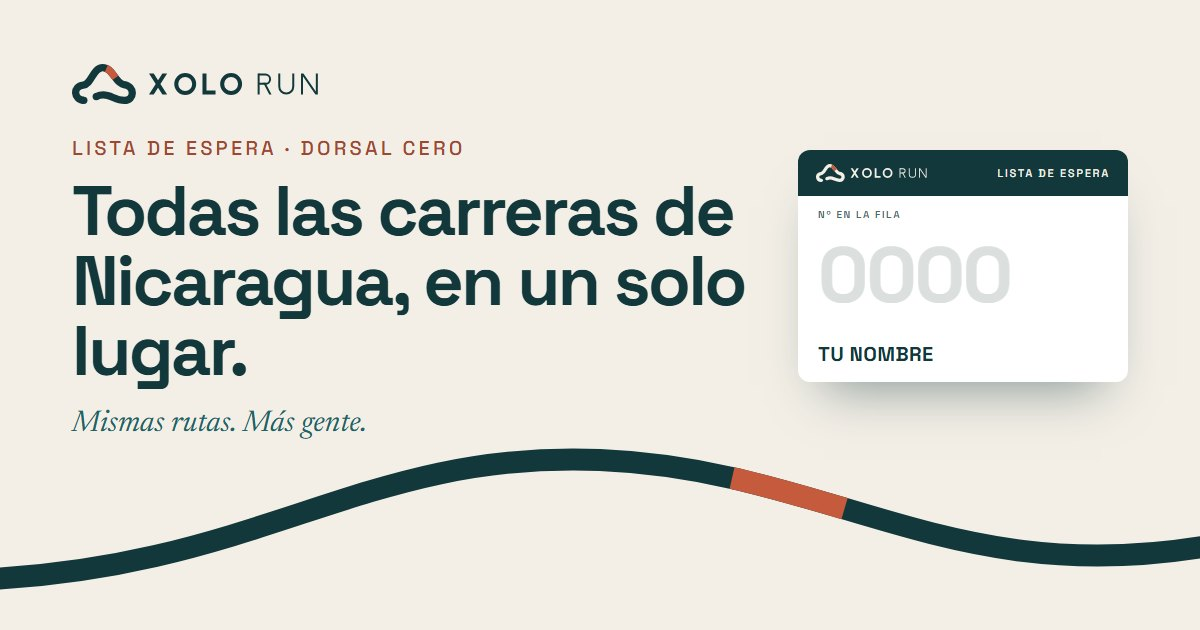
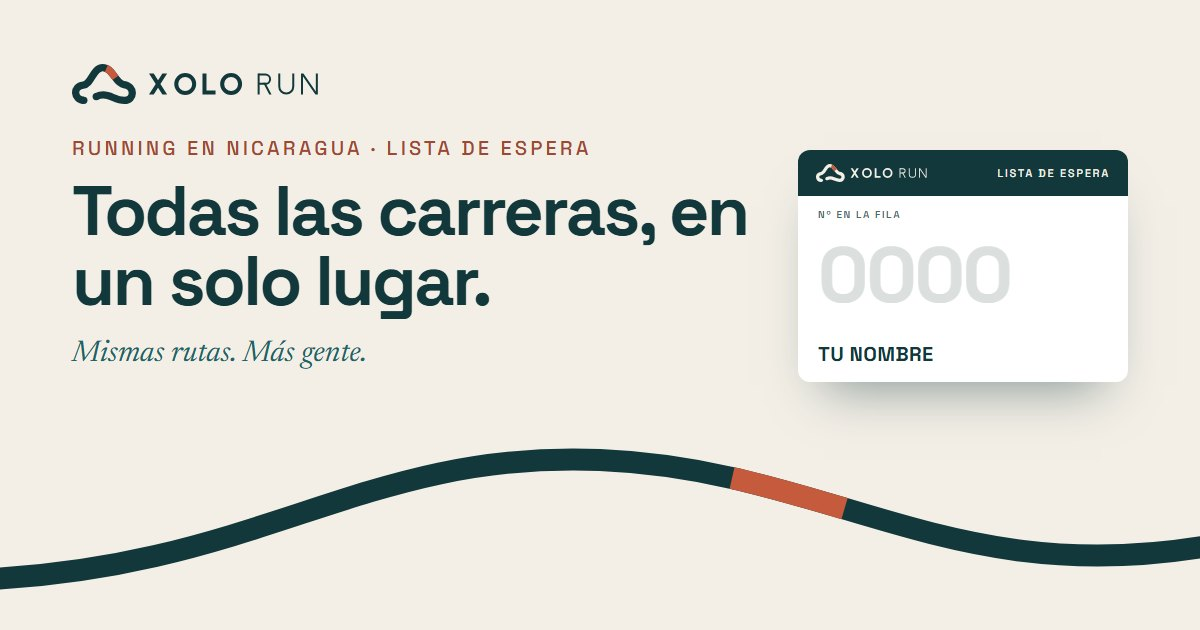
«Carreras de running» y «la app del running en Nicaragua» en los textos genéricos (título, descripción, hero, cifras, ruta, preguntas, WhatsApp, Nosotros, encuesta); imagen para compartir regenerada

diff --git a/i18n.js b/i18n.js
@@ -8,15 +8,15 @@
 (() => {
   const EN = {
     // ─── cabecera, pestañas y pie ───
-    'Xolo Run · Todas las carreras de Nicaragua, en un solo lugar': "Xolo Run · All of Nicaragua's races, in one place",
+    'Xolo Run · Todas las carreras de running de Nicaragua, en un solo lugar': "Xolo Run · All of Nicaragua's races, in one place",
     'Ir al contenido': 'Skip to content', 'Nosotros': 'About us', 'Preguntas': 'FAQ', 'Aviso de privacidad': 'Privacy notice',
     'Inicio': 'Home', 'Encuesta': 'Survey', 'Lista de espera': 'Waitlist',
     'Xolo Run · Nicaragua. Hecho por gente que corre.': 'Xolo Run · Nicaragua. Made by people who run.',
     'Mismas rutas. Más gente.': 'Same routes. More people.', 'Xolo Run · Nicaragua': 'Xolo Run · Nicaragua',
     // ─── portada ───
     'Running en Nicaragua': 'Running in Nicaragua',
-    'Inscribirte no debería ser una carrera.': "Signing up shouldn't be a race.",
-    'Xolo Run es la app para las carreras de Nicaragua: las encontrás, te inscribís, pagás y llevás tu dorsal en el teléfono, todo en un solo lugar. Todavía no sale. Anotate y te avisamos primero.':
+    'Inscribirte para correr no debería ser una carrera.': "Signing up shouldn't be a race.",
+    'Xolo Run es la app del running en Nicaragua: encontrás las carreras, te inscribís, pagás y llevás tu dorsal en el teléfono, todo en un solo lugar. Todavía no sale. Anotate y te avisamos primero.':
       "Xolo Run is the app for Nicaragua's races: find them, sign up, pay and carry your bib on your phone, all in one place. It isn't out yet. Join the list and we'll tell you first.",
     'Quiero mi dorsal': 'I want my bib', 'Ver cómo funciona': 'See how it works', 'Próximamente en': 'Coming soon on',
     'personas ya tienen su dorsal': 'people already have their bib',
@@ -38,14 +38,14 @@
     'Tu comprobante': 'Your receipt', 'Subido desde la app': 'Uploaded from the app', 'Comprobante enviado': 'Receipt sent', 'Revisado por el equipo del evento': 'Reviewed by the event team',
     'Tu dorsal ya está en la app.': 'Your bib is already in the app.', 'Salida': 'Start', 'Meta': 'Finish',
     // ─── lo que nos contaron ───
-    'Hoy, inscribirse a una carrera': 'Signing up for a race today',
+    'Hoy, inscribirse a una carrera de running': 'Signing up for a race today',
     'Lo que nos contaron 179 personas que corren en Nicaragua': 'What 179 people who run in Nicaragua told us',
     'Antes de construir, preguntamos. Estas son sus respuestas, con su base. Son el mapa de lo que Xolo Run tiene que resolver.':
       'Before building, we asked. These are their answers, with their base. They map what Xolo Run has to solve.',
     'Encuesta «Running en Nicaragua», respuestas completas del 6 al 8 de octubre de 2026, sin las pruebas del equipo. Los porcentajes son sobre quienes respondieron cada pregunta.':
       '«Running in Nicaragua» survey, complete responses from 6 to 8 October 2026, excluding team tests. Percentages are of those who answered each question.',
     'Sumate a la encuesta': 'Take the survey',
-    'quiso inscribirse a una carrera en el último año y al final no lo hizo.': "wanted to sign up for a race in the last year and in the end didn't.",
+    'quiso inscribirse a una carrera de running en el último año y al final no lo hizo.': "wanted to sign up for a race in the last year and in the end didn't.",
     'Qué pasó': 'What happened', 'La fecha no le quedaba': "The date didn't work", 'Se enteró tarde': 'Found out too late', 'No tenía con quién ir': 'Had nobody to go with',
     'Base: 88 que ya corrieron una carrera; razones de las 63 que no se inscribieron.': "Base: 88 who have run a race; reasons from the 63 who didn't sign up.",
     'Ves cada carrera con tiempo y te inscribís en pocos pasos.': 'You see every race in time and sign up in a few steps.',
@@ -64,8 +64,8 @@
     // ─── la ruta ───
     'Así es con Xolo Run': 'This is how it goes with Xolo Run', 'Paso 1': 'Step 1', 'Paso 2': 'Step 2', 'Paso 3': 'Step 3', 'Paso 5': 'Step 5', 'Paso 6': 'Step 6',
     'Paso 4 · El tramo de encuentro': 'Step 4 · The meeting stretch', 'La meta': 'The finish',
-    'Encontrás tu carrera.': 'You find your race.',
-    'Todas las carreras de Nicaragua, en un solo lugar. Las de tu zona, primero, y con tiempo para decidir.': "All of Nicaragua's races in one place. The ones near you first, with time to decide.",
+    'Encontrás tu próxima carrera.': 'You find your next race.',
+    'Todas las carreras de running de Nicaragua, en un solo lugar. Las de tu zona, primero, y con tiempo para decidir.': "All of Nicaragua's races in one place. The ones near you first, with time to decide.",
     'Te inscribís desde el teléfono.': 'You sign up from your phone.',
     'Distancia, talla y contacto de emergencia en pocos pasos. Tus datos quedan guardados para la próxima.': 'Distance, shirt size and emergency contact in a few steps. Your details are saved for next time.',
     'Pagás. Confirmado.': 'You pay. Confirmed.',
@@ -147,12 +147,12 @@
     'Dorsal reclamado': 'Bib claimed', 'Tu dorsal está en camino': 'Your bib is on its way', 'Tu dorsal ya es tuyo': 'Your bib is yours', 'En la fila': 'In line',
     'Preparando tu dorsal…': 'Preparing your bib…', 'Tu dorsal para historias': 'Your bib for Stories',
     'Mantené presionada la imagen y elegí «Guardar imagen». Después subila a tu historia.': 'Press and hold the image and choose «Save image». Then post it to your story.',
-    'Me anoté en Xolo Run, la app para las carreras de Nicaragua': "I joined Xolo Run, the app for Nicaragua's races", ', y tengo el #': ", and I'm #", ' en la fila': ' in line', '. Sacá tu dorsal: ': '. Get your bib: ',
+    'Me anoté en Xolo Run, la app del running en Nicaragua': "I joined Xolo Run, the app for Nicaragua's races", ', y tengo el #': ", and I'm #", ' en la fila': ' in line', '. Sacá tu dorsal: ': '. Get your bib: ',
     'Ya tengo': "I've got", 'mi dorsal': 'my bib', 'LISTA DE ESPERA': 'WAITLIST', 'Nº EN LA FILA': 'NO. IN LINE', 'QR · ESCANEALO Y ANOTATE': 'QR · SCAN IT AND JOIN', 'Sacá tu dorsal aquí': 'Get your bib here',
     'Encuesta · Xolo Run': 'Survey · Xolo Run', 'Lista de espera · Xolo Run': 'Waitlist · Xolo Run', 'en confirmación': 'pending',
     // ─── preguntas y aviso ───
     '¿Qué es Xolo Run?': 'What is Xolo Run?',
-    'Una app para las carreras de Nicaragua: ver todas en un solo calendario, inscribirte y pagar desde el teléfono, llevar tu dorsal con QR y recoger tu kit con un escaneo. También crews por zona y un reto cada semana.':
+    'Una app para las carreras de running de Nicaragua: ver todas en un solo calendario, inscribirte y pagar desde el teléfono, llevar tu dorsal con QR y recoger tu kit con un escaneo. También crews por zona y un reto cada semana.':
       "An app for Nicaragua's races: see them all in one calendar, sign up and pay from your phone, carry your QR bib and pick up your kit with one scan. Plus crews by area and a weekly challenge.",
     '¿Cuándo sale?': 'When does it launch?',
     'Todavía no tiene fecha. Quienes están en la lista se enteran primero, y no vamos a anunciar una fecha hasta que sea segura.': "No date yet. People on the list hear first, and we won't announce a date until it's certain.",
@@ -183,14 +183,14 @@
     // fuera del DOM (landing.js los pide con XR_T)
     'Mi dorsal de Xolo Run': 'My Xolo Run bib', 'Tu dorsal de Xolo Run con tu número y tu QR': 'Your Xolo Run bib with your number and your QR',
     // atributos de la landing (meta, og, aria-label)
-    'Xolo Run es la app para las carreras de Nicaragua: las encontrás, te inscribís, pagás y llevás tu dorsal en el teléfono. Todavía no sale: anotate en la lista de espera o contanos cómo corrés.':
+    'Xolo Run es la app del running en Nicaragua: encontrás las carreras, te inscribís, pagás y llevás tu dorsal en el teléfono. Todavía no sale: anotate en la lista de espera o contanos cómo corrés.':
       "Xolo Run is the app for Nicaragua's races: find them, sign up, pay and carry your bib on your phone. It isn't out yet: join the waitlist or tell us how you run.",
     'Xolo Run · Mismas rutas. Más gente.': 'Xolo Run · Same routes. More people.',
-    'La app para las carreras de Nicaragua. Todavía no sale: anotate y te avisamos primero.': "The app for Nicaragua's races. Not out yet: join the list and we'll tell you first.",
+    'La app del running en Nicaragua. Todavía no sale: anotate y te avisamos primero.': "The app for Nicaragua's races. Not out yet: join the list and we'll tell you first.",
     'Xolo Run, inicio': 'Xolo Run, home', 'Secciones': 'Sections', 'Cifras de la encuesta': 'Survey figures', 'Dónde va a estar la app': 'Where the app will be',
     // ─── página Nosotros (nosotros/index.html) ───
     'Nosotros · Xolo Run': 'About us · Xolo Run',
-    'Misión, visión, valores y el equipo detrás de Xolo Run, la app nicaragüense que reúne las carreras del país en un solo lugar.': "Mission, vision, values and the team behind Xolo Run, the Nicaraguan app that brings the country's races together in one place.",
+    'Misión, visión, valores y el equipo detrás de Xolo Run, la app nicaragüense que reúne las carreras de running del país en un solo lugar.': "Mission, vision, values and the team behind Xolo Run, the Nicaraguan app that brings the country's races together in one place.",
     'Misión, visión, valores y el equipo detrás de Xolo Run.': 'Mission, vision, values and the team behind Xolo Run.',
     'Xolo Run, ir al inicio': 'Xolo Run, go to home', 'Especialidades': 'Specialties',
     'Por qué hacemos Xolo Run': 'Why we make Xolo Run',
@@ -211,7 +211,7 @@
     'Orgullo nicaragüense': 'Nicaraguan pride', 'Lo de aquí es nuestra fortaleza: rutas, lugares y gente.': "What's from here is our strength: routes, places and people.", 'Folclor de postal.': 'Postcard folklore.',
     'Cuidadosos en el detalle': 'Careful with the details', 'Pocas cosas, bien hechas. La calidad se nota.': 'Few things, done well. Quality shows.', 'Hacer por cumplir.': 'Doing it just to tick the box.',
     'El equipo': 'The team', 'Tres personas de aquí, una misma ruta': 'Three people from here, one shared route',
-    'Los tres estudiamos ingeniería industrial: lo nuestro es ordenar procesos y quitar los pasos que sobran. Venimos de años en operaciones, pagos y atención al cliente en fintech, software como servicio, logística y el mundo corporativo, y ahora lo ponemos al servicio de las carreras de Nicaragua.':
+    'Los tres estudiamos ingeniería industrial: lo nuestro es ordenar procesos y quitar los pasos que sobran. Venimos de años en operaciones, pagos y atención al cliente en fintech, software como servicio, logística y el mundo corporativo, y ahora lo ponemos al servicio de las carreras de running de Nicaragua.':
       "All three of us studied industrial engineering: our thing is putting processes in order and removing the steps that get in the way. We come from years in operations, payments and customer service in fintech, software as a service, logistics and the corporate world, and now we put that to work for Nicaragua's races.",
     'Producto': 'Product', 'Operaciones': 'Operations', 'Comercial': 'Sales', 'En Xolo Run': 'At Xolo Run', 'De dónde viene': 'Background',
     'Cofundador · Producto y tecnología': 'Co-founder · Product and technology', 'Cofundador · Operaciones y cumplimiento': 'Co-founder · Operations and compliance', 'Cofundador · Comercial y alianzas': 'Co-founder · Sales and partnerships',
@@ -223,7 +223,7 @@
     'Más de seis años en fintech, servicios legales y el mundo corporativo. En fintech pasó de investigador de fraude a gerente de un equipo internacional y luego a gerente asociado de programas.':
       'Over six years in fintech, legal services and the corporate world. In fintech, went from fraud investigator to manager of an international team and then to associate program manager.',
     'Riesgo y fraude': 'Risk and fraud', 'Procesos': 'Processes',
-    'Trabaja con organizadores y marcas para que las carreras de Nicaragua lleguen a la app.': "Works with organizers and brands so that Nicaragua's races make it into the app.",
+    'Trabaja con organizadores y marcas para que las carreras de running de Nicaragua lleguen a la app.': "Works with organizers and brands so that Nicaragua's races make it into the app.",
     'Viene de la logística de última milla, el comercio minorista y la venta automotriz: atendió cuentas clave, resolvió envíos y reclamos con las bodegas y trabajó en ventas y servicio al cliente.':
       'Comes from last-mile logistics, retail and car sales: handled key accounts, sorted out shipments and claims with the warehouses, and worked in sales and customer service.',
     'Cuentas clave': 'Key accounts', 'Ventas': 'Sales', 'Logística': 'Logistics',

diff --git a/index.html b/index.html
@@ -3,14 +3,14 @@
 <head>
 <meta charset="utf-8">
 <meta name="viewport" content="width=device-width, initial-scale=1, viewport-fit=cover">
-<title>Xolo Run · Todas las carreras de Nicaragua, en un solo lugar</title>
-<meta name="description" content="Xolo Run es la app para las carreras de Nicaragua: las encontrás, te inscribís, pagás y llevás tu dorsal en el teléfono. Todavía no sale: anotate en la lista de espera o contanos cómo corrés.">
+<title>Xolo Run · Todas las carreras de running de Nicaragua, en un solo lugar</title>
+<meta name="description" content="Xolo Run es la app del running en Nicaragua: encontrás las carreras, te inscribís, pagás y llevás tu dorsal en el teléfono. Todavía no sale: anotate en la lista de espera o contanos cómo corrés.">
 <meta name="theme-color" content="#F3EFE7">
 <meta property="og:type" content="website">
 <meta property="og:title" content="Xolo Run · Mismas rutas. Más gente.">
-<meta property="og:description" content="La app para las carreras de Nicaragua. Todavía no sale: anotate y te avisamos primero.">
+<meta property="og:description" content="La app del running en Nicaragua. Todavía no sale: anotate y te avisamos primero.">
 <meta property="og:url" content="https://xolorun.com/">
-<meta property="og:image" content="https://xolorun.com/og.jpg">
+<meta property="og:image" content="https://xolorun.com/og.jpg?v=20261010">
 <meta property="og:locale" content="es_NI">
 <link rel="canonical" href="https://xolorun.com/">
 <link rel="alternate" hreflang="es" href="https://xolorun.com/">
@@ -23,13 +23,13 @@
 <link rel="preconnect" href="https://fonts.googleapis.com">
 <link rel="preconnect" href="https://fonts.gstatic.com" crossorigin>
 <link rel="stylesheet" href="https://fonts.googleapis.com/css2?family=Inter:wght@400;500;600;700&family=Newsreader:ital,opsz,wght@1,6..72,400&family=Space+Grotesk:wght@500;600;700&display=swap">
-<link rel="stylesheet" href="landing.css?v=202610101049">
-<script type="application/ld+json">{"@context":"https://schema.org","@type":"Organization","name":"Xolo Run","url":"https://xolorun.com/","logo":"https://xolorun.com/marca/apple-touch-icon-180.png","slogan":"Mismas rutas. Más gente.","description":"App nicaragüense que reúne las carreras del país en un solo lugar.","areaServed":"NI","founder":[{"@type":"Person","name":"Saymond Montoya","jobTitle":"Cofundador · Producto y tecnología"},{"@type":"Person","name":"Kenneth Rosales","jobTitle":"Cofundador · Operaciones y cumplimiento"},{"@type":"Person","name":"Bigarny Gutiérrez","jobTitle":"Cofundador · Comercial y alianzas"}]}</script>
+<link rel="stylesheet" href="landing.css?v=202610101114">
+<script type="application/ld+json">{"@context":"https://schema.org","@type":"Organization","name":"Xolo Run","url":"https://xolorun.com/","logo":"https://xolorun.com/marca/apple-touch-icon-180.png","slogan":"Mismas rutas. Más gente.","description":"App nicaragüense que reúne las carreras de running del país en un solo lugar.","areaServed":"NI","founder":[{"@type":"Person","name":"Saymond Montoya","jobTitle":"Cofundador · Producto y tecnología"},{"@type":"Person","name":"Kenneth Rosales","jobTitle":"Cofundador · Operaciones y cumplimiento"},{"@type":"Person","name":"Bigarny Gutiérrez","jobTitle":"Cofundador · Comercial y alianzas"}]}</script>
 <script>document.documentElement.className = 'js';</script>
 <script src="https://cdn.jsdelivr.net/npm/gsap@3.15.0/dist/gsap.min.js" defer></script>
 <script src="https://cdnjs.cloudflare.com/ajax/libs/qrcode-generator/1.4.4/qrcode.min.js" defer></script>
-<script src="i18n.js?v=202610101049" defer></script>
-<script src="landing.js?v=202610101049" defer></script>
+<script src="i18n.js?v=202610101114" defer></script>
+<script src="landing.js?v=202610101114" defer></script>
 </head>
 <body>
 <a class="skip" href="#main">Ir al contenido</a>
@@ -80,8 +80,8 @@
         <svg class="hero-route" id="hero-route" aria-hidden="true" preserveAspectRatio="none"><path class="rb" id="hr-base" pathLength="1"/><path class="rs" id="hr-seg" pathLength="1"/></svg>
         <div class="copy">
           <p class="label" data-rise>Running en Nicaragua</p>
-          <h1 class="h1" id="t-hero" data-words>Inscribirte no debería ser una carrera.</h1>
-          <p class="lede" data-rise>Xolo Run es la app para las carreras de Nicaragua: las encontrás, te inscribís, pagás y llevás tu dorsal en el teléfono, todo en un solo lugar. Todavía no sale. Anotate y te avisamos primero.</p>
+          <h1 class="h1" id="t-hero" data-words>Inscribirte para correr no debería ser una carrera.</h1>
+          <p class="lede" data-rise>Xolo Run es la app del running en Nicaragua: encontrás las carreras, te inscribís, pagás y llevás tu dorsal en el teléfono, todo en un solo lugar. Todavía no sale. Anotate y te avisamos primero.</p>
           <div class="acts" data-rise>
             <button class="cta" type="button" data-tab-link="lista"><span class="roll" data-roll>Quiero mi dorsal</span><svg viewBox="0 0 24 24" aria-hidden="true"><path fill="none" stroke="currentColor" stroke-width="2" stroke-linecap="round" stroke-linejoin="round" d="M5 12h14M13 6l6 6-6 6"/></svg></button>
             <a class="link2" href="#ruta" data-scroll>Ver cómo funciona<svg viewBox="0 0 24 24" aria-hidden="true"><path fill="none" stroke="currentColor" stroke-width="2" stroke-linecap="round" stroke-linejoin="round" d="M12 5v14M6 13l6 6 6-6"/></svg></a>
@@ -148,7 +148,7 @@
     <!-- lo que nos contaron -->
     <section class="band dark" id="hoy" aria-labelledby="t-hoy">
       <div class="wrap">
-        <p class="label" data-rise>Hoy, inscribirse a una carrera</p>
+        <p class="label" data-rise>Hoy, inscribirse a una carrera de running</p>
         <h2 class="h2" id="t-hoy" data-words>Lo que nos contaron 179 personas que corren en Nicaragua</h2>
         <p class="lede" data-rise>Antes de construir, preguntamos. Estas son sus respuestas, con su base. Son el mapa de lo que Xolo Run tiene que resolver.</p>
         <div class="stats" id="stats" role="region" aria-label="Cifras de la encuesta" tabindex="0"></div>
@@ -161,7 +161,7 @@
       <div class="pin">
         <div class="steps" id="steps">
           <h2 class="vh" id="t-ruta">Así es con Xolo Run</h2>
-          <div class="step on" data-step="0"><p class="label"><i></i>Paso 1</p><h3 class="h2">Encontrás tu carrera.</h3><p>Todas las carreras de Nicaragua, en un solo lugar. Las de tu zona, primero, y con tiempo para decidir.</p></div>
+          <div class="step on" data-step="0"><p class="label"><i></i>Paso 1</p><h3 class="h2">Encontrás tu próxima carrera.</h3><p>Todas las carreras de running de Nicaragua, en un solo lugar. Las de tu zona, primero, y con tiempo para decidir.</p></div>
           <div class="step" data-step="1"><p class="label"><i></i>Paso 2</p><h3 class="h2">Te inscribís desde el teléfono.</h3><p>Distancia, talla y contacto de emergencia en pocos pasos. Tus datos quedan guardados para la próxima.</p></div>
           <div class="step" data-step="2"><p class="label"><i></i>Paso 3</p><h3 class="h2">Pagás. Confirmado.</h3><p>Subís tu comprobante en la app y ves el estado de tu pago. Sin capturas por chat, sin preguntar si llegó.</p></div>
           <div class="step" data-step="3"><p class="label"><i></i>Paso 4 · El tramo de encuentro</p><h3 class="h2">Tu crew te espera.</h3><p>Crews por zona y un reto cada semana, para que nadie corra solo.</p></div>
@@ -440,7 +440,7 @@
 <dialog class="sheet" id="sheet" aria-labelledby="t-faq">
   <div class="sheet-in">
     <div class="sheet-head"><h2 id="t-faq">Preguntas</h2><button class="x" type="button" data-close aria-label="Cerrar"><svg viewBox="0 0 24 24" aria-hidden="true"><path fill="none" stroke="currentColor" stroke-width="2" stroke-linecap="round" d="M6 6l12 12M18 6L6 18"/></svg></button></div>
-    <details><summary>¿Qué es Xolo Run?</summary><div><p>Una app para las carreras de Nicaragua: ver todas en un solo calendario, inscribirte y pagar desde el teléfono, llevar tu dorsal con QR y recoger tu kit con un escaneo. También crews por zona y un reto cada semana.</p></div></details>
+    <details><summary>¿Qué es Xolo Run?</summary><div><p>Una app para las carreras de running de Nicaragua: ver todas en un solo calendario, inscribirte y pagar desde el teléfono, llevar tu dorsal con QR y recoger tu kit con un escaneo. También crews por zona y un reto cada semana.</p></div></details>
     <details><summary>¿Cuándo sale?</summary><div><p>Todavía no tiene fecha. Quienes están en la lista se enteran primero, y no vamos a anunciar una fecha hasta que sea segura.</p></div></details>
     <details><summary>¿Cuesta algo anotarme?</summary><div><p>No. Anotarte en la lista no cuesta nada y no te compromete a nada.</p></div></details>
     <details><summary>¿La encuesta y la lista son lo mismo?</summary><div><p>No. La encuesta es anónima: nos cuenta cómo se vive correr aquí. La lista de espera guarda tu contacto para avisarte. Podés hacer una, las dos o ninguna.</p></div></details>

diff --git a/nosotros/index.html b/nosotros/index.html
@@ -4,13 +4,13 @@
 <meta charset="utf-8">
 <meta name="viewport" content="width=device-width, initial-scale=1, viewport-fit=cover">
 <title>Nosotros · Xolo Run</title>
-<meta name="description" content="Misión, visión, valores y el equipo detrás de Xolo Run, la app nicaragüense que reúne las carreras del país en un solo lugar.">
+<meta name="description" content="Misión, visión, valores y el equipo detrás de Xolo Run, la app nicaragüense que reúne las carreras de running del país en un solo lugar.">
 <meta name="theme-color" content="#F3EFE7">
 <meta property="og:type" content="website">
 <meta property="og:title" content="Nosotros · Xolo Run">
 <meta property="og:description" content="Misión, visión, valores y el equipo detrás de Xolo Run.">
 <meta property="og:url" content="https://xolorun.com/nosotros/">
-<meta property="og:image" content="https://xolorun.com/og.jpg">
+<meta property="og:image" content="https://xolorun.com/og.jpg?v=20261010">
 <meta property="og:locale" content="es_NI">
 <link rel="canonical" href="https://xolorun.com/nosotros/">
 <link rel="alternate" hreflang="es" href="https://xolorun.com/nosotros/">
@@ -23,9 +23,9 @@
 <link rel="preconnect" href="https://fonts.googleapis.com">
 <link rel="preconnect" href="https://fonts.gstatic.com" crossorigin>
 <link rel="stylesheet" href="https://fonts.googleapis.com/css2?family=Inter:wght@400;500;600;700&family=Newsreader:ital,opsz,wght@1,6..72,400&family=Space+Grotesk:wght@500;600;700&display=swap">
-<link rel="stylesheet" href="../landing.css?v=202610101049">
+<link rel="stylesheet" href="../landing.css?v=202610101114">
 <script>document.documentElement.className = 'js';</script>
-<script src="../i18n.js?v=202610101049" defer></script>
+<script src="../i18n.js?v=202610101114" defer></script>
 </head>
 <body class="pg-nos">
 <a class="skip" href="#main">Ir al contenido</a>
@@ -100,7 +100,7 @@
     <div class="wrap">
       <p class="label" data-rise>El equipo</p>
       <h2 class="h2" id="t-equipo" data-rise>Tres personas de aquí, una misma ruta</h2>
-      <p class="lede" data-rise>Los tres estudiamos ingeniería industrial: lo nuestro es ordenar procesos y quitar los pasos que sobran. Venimos de años en operaciones, pagos y atención al cliente en fintech, software como servicio, logística y el mundo corporativo, y ahora lo ponemos al servicio de las carreras de Nicaragua.</p>
+      <p class="lede" data-rise>Los tres estudiamos ingeniería industrial: lo nuestro es ordenar procesos y quitar los pasos que sobran. Venimos de años en operaciones, pagos y atención al cliente en fintech, software como servicio, logística y el mundo corporativo, y ahora lo ponemos al servicio de las carreras de running de Nicaragua.</p>
       <ul class="equipo" data-rise>
         <li class="miembro">
           <div class="mb-band"><span>Producto</span><svg viewBox="0 0 211.08 132" aria-hidden="true"><use href="#sym"/></svg></div>
@@ -133,7 +133,7 @@
           <div class="mb-body">
             <div class="mb-who"><span class="mb-av" aria-hidden="true">BG<img src="fotos/bigarny.webp?v=2" alt="" width="72" height="72" loading="lazy" decoding="async"></span><div><h3>Bigarny Gutiérrez</h3><p class="mb-role">Cofundador · Comercial y alianzas</p><a class="mb-in" href="https://www.linkedin.com/in/bigarny-gutierrez-20868629b/" target="_blank" rel="noopener" aria-label="LinkedIn de Bigarny Gutiérrez (se abre en otra pestaña)"><svg viewBox="0 0 24 24" aria-hidden="true"><path d="M20.447 20.452h-3.554v-5.569c0-1.328-.027-3.037-1.852-3.037-1.853 0-2.136 1.445-2.136 2.939v5.667H9.351V9h3.414v1.561h.046c.477-.9 1.637-1.85 3.37-1.85 3.601 0 4.267 2.37 4.267 5.455v6.286zM5.337 7.433a2.062 2.062 0 1 1 0-4.125 2.062 2.062 0 0 1 0 4.125zM7.119 20.452H3.555V9h3.564v11.452zM22.225 0H1.771C.792 0 0 .774 0 1.729v20.542C0 23.227.792 24 1.771 24h20.451C23.2 24 24 23.227 24 22.271V1.729C24 .774 23.2 0 22.222 0h.003z"/></svg>LinkedIn</a></div></div>
             <p class="mb-k">En Xolo Run</p>
-            <p class="mb-do">Trabaja con organizadores y marcas para que las carreras de Nicaragua lleguen a la app.</p>
+            <p class="mb-do">Trabaja con organizadores y marcas para que las carreras de running de Nicaragua lleguen a la app.</p>
             <p class="mb-k">De dónde viene</p>
             <p class="mb-was">Viene de la logística de última milla, el comercio minorista y la venta automotriz: atendió cuentas clave, resolvió envíos y reclamos con las bodegas y trabajó en ventas y servicio al cliente.</p>
             <ul class="mb-tags" aria-label="Especialidades"><li>Cuentas clave</li><li>Ventas</li><li>Logística</li></ul>

diff --git a/landing.js b/landing.js
@@ -26,7 +26,7 @@
     ['organizo', 'Organizo carreras o un crew'], ['acompano', 'Acompaño a alguien que corre']];
   // Cifras de la encuesta «Running en Nicaragua» (179 respuestas completas, 6 al 8 de octubre de 2026). Consulta: lista-espera/herramientas/cifras-encuesta.sql
   const STATS = [
-    { n: 72, u: '%', say: 'quiso inscribirse a una carrera en el último año y al final no lo hizo.', cap: 'Qué pasó',
+    { n: 72, u: '%', say: 'quiso inscribirse a una carrera de running en el último año y al final no lo hizo.', cap: 'Qué pasó',
       bars: [['La fecha no le quedaba', 33], ['Se acabaron los cupos', 27], ['Se enteró tarde', 25], ['No tenía con quién ir', 25]],
       base: 'Base: 88 que ya corrieron una carrera; razones de las 63 que no se inscribieron.', xo: 'Ves cada carrera con tiempo y te inscribís en pocos pasos.' },
     { n: 71, u: '%', say: 'de quienes pagaron por transferencia tuvo que mandar foto del comprobante para que le confirmaran.', cap: 'Cómo pagó su última carrera',
@@ -208,7 +208,7 @@
     tab = name;
     for (const t of TABS) { tabBtns[t].setAttribute('aria-selected', t === name ? 'true' : 'false'); tabBtns[t].tabIndex = t === name ? 0 : -1; }
     if (push) history.pushState({ tab: name }, '', '#' + name);
-    document.title = T(name === 'encuesta' ? 'Encuesta · Xolo Run' : name === 'lista' ? 'Lista de espera · Xolo Run' : 'Xolo Run · Todas las carreras de Nicaragua, en un solo lugar');
+    document.title = T(name === 'encuesta' ? 'Encuesta · Xolo Run' : name === 'lista' ? 'Lista de espera · Xolo Run' : 'Xolo Run · Todas las carreras de running de Nicaragua, en un solo lugar');
     const show = () => {
       panels[old].hidden = true; panels[name].hidden = false;
       window.scrollTo({ top: name === 'inicio' ? scrollPos.inicio : 0, behavior: 'instant' });
@@ -926,7 +926,7 @@
     else if (n === null) html = '<h3>Prueba guardada</h3><p>Las pruebas del equipo no reciben número en la fila.</p>';
     else html = '<h3>Listo. Nos vemos en la ruta.</h3><p>Tenés el #' + n + ' en la fila. Te escribimos ' + who + ' cuando abramos. El QR de tu dorsal es tu enlace: quien lo escanee se anota con vos.</p>';
     if (!r.queued && r.code) {
-      const text = T('Me anoté en Xolo Run, la app para las carreras de Nicaragua') + (n ? T(', y tengo el #') + n + T(' en la fila') : '') + T('. Sacá tu dorsal: ') + link;
+      const text = T('Me anoté en Xolo Run, la app del running en Nicaragua') + (n ? T(', y tengo el #') + n + T(' en la fila') : '') + T('. Sacá tu dorsal: ') + link;
       html += '<div class="share">' +
         '<a class="go" href="https://wa.me/?text=' + encodeURIComponent(text) + '" target="_blank" rel="noopener">' +
         '<svg viewBox="0 0 24 24" aria-hidden="true"><path d="M12 2.2a9.7 9.7 0 0 0-8.3 14.8L2.4 21.6l4.7-1.2A9.7 9.7 0 1 0 12 2.2zm0 17.7a8 8 0 0 1-4.1-1.1l-.3-.2-2.8.7.8-2.7-.2-.3A8 8 0 1 1 12 19.9zm4.4-6c-.2-.1-1.4-.7-1.7-.8s-.4-.1-.5.1-.6.8-.8.9-.3.2-.5.1a6.6 6.6 0 0 1-3.3-2.9c-.2-.4.2-.4.7-1.3.1-.2 0-.3 0-.4l-.8-1.8c-.2-.5-.4-.4-.5-.4h-.5a1 1 0 0 0-.7.3 3 3 0 0 0-.9 2.2 5.2 5.2 0 0 0 1.1 2.8 11.9 11.9 0 0 0 4.6 4c1.7.7 2.4.8 3.2.7a2.7 2.7 0 0 0 1.8-1.3 2.2 2.2 0 0 0 .2-1.3c-.1-.1-.2-.2-.5-.3z"/></svg>' +

diff --git a/encuesta/index.html b/encuesta/index.html
@@ -1189,7 +1189,7 @@
     return '<section class="soon" aria-label="Próximamente">' +
       '<p class="eyebrow">Próximamente</p>' +
       '<p class="name" role="img" aria-label="' + BRAND + '">' + LOGO_H + '</p>' +
-      '<p class="muted">Las carreras de Nicaragua, en tu teléfono.</p>' +
+      '<p class="muted">Las carreras de running de Nicaragua, en tu teléfono.</p>' +
       '<div class="stores">' +
         '<span class="store">' + PHONE_ICON + '<span><small>Pronto en</small>Google Play</span></span>' +
         '<span class="store">' + PHONE2_ICON + '<span><small>Pronto en</small>App Store</span></span>' +
